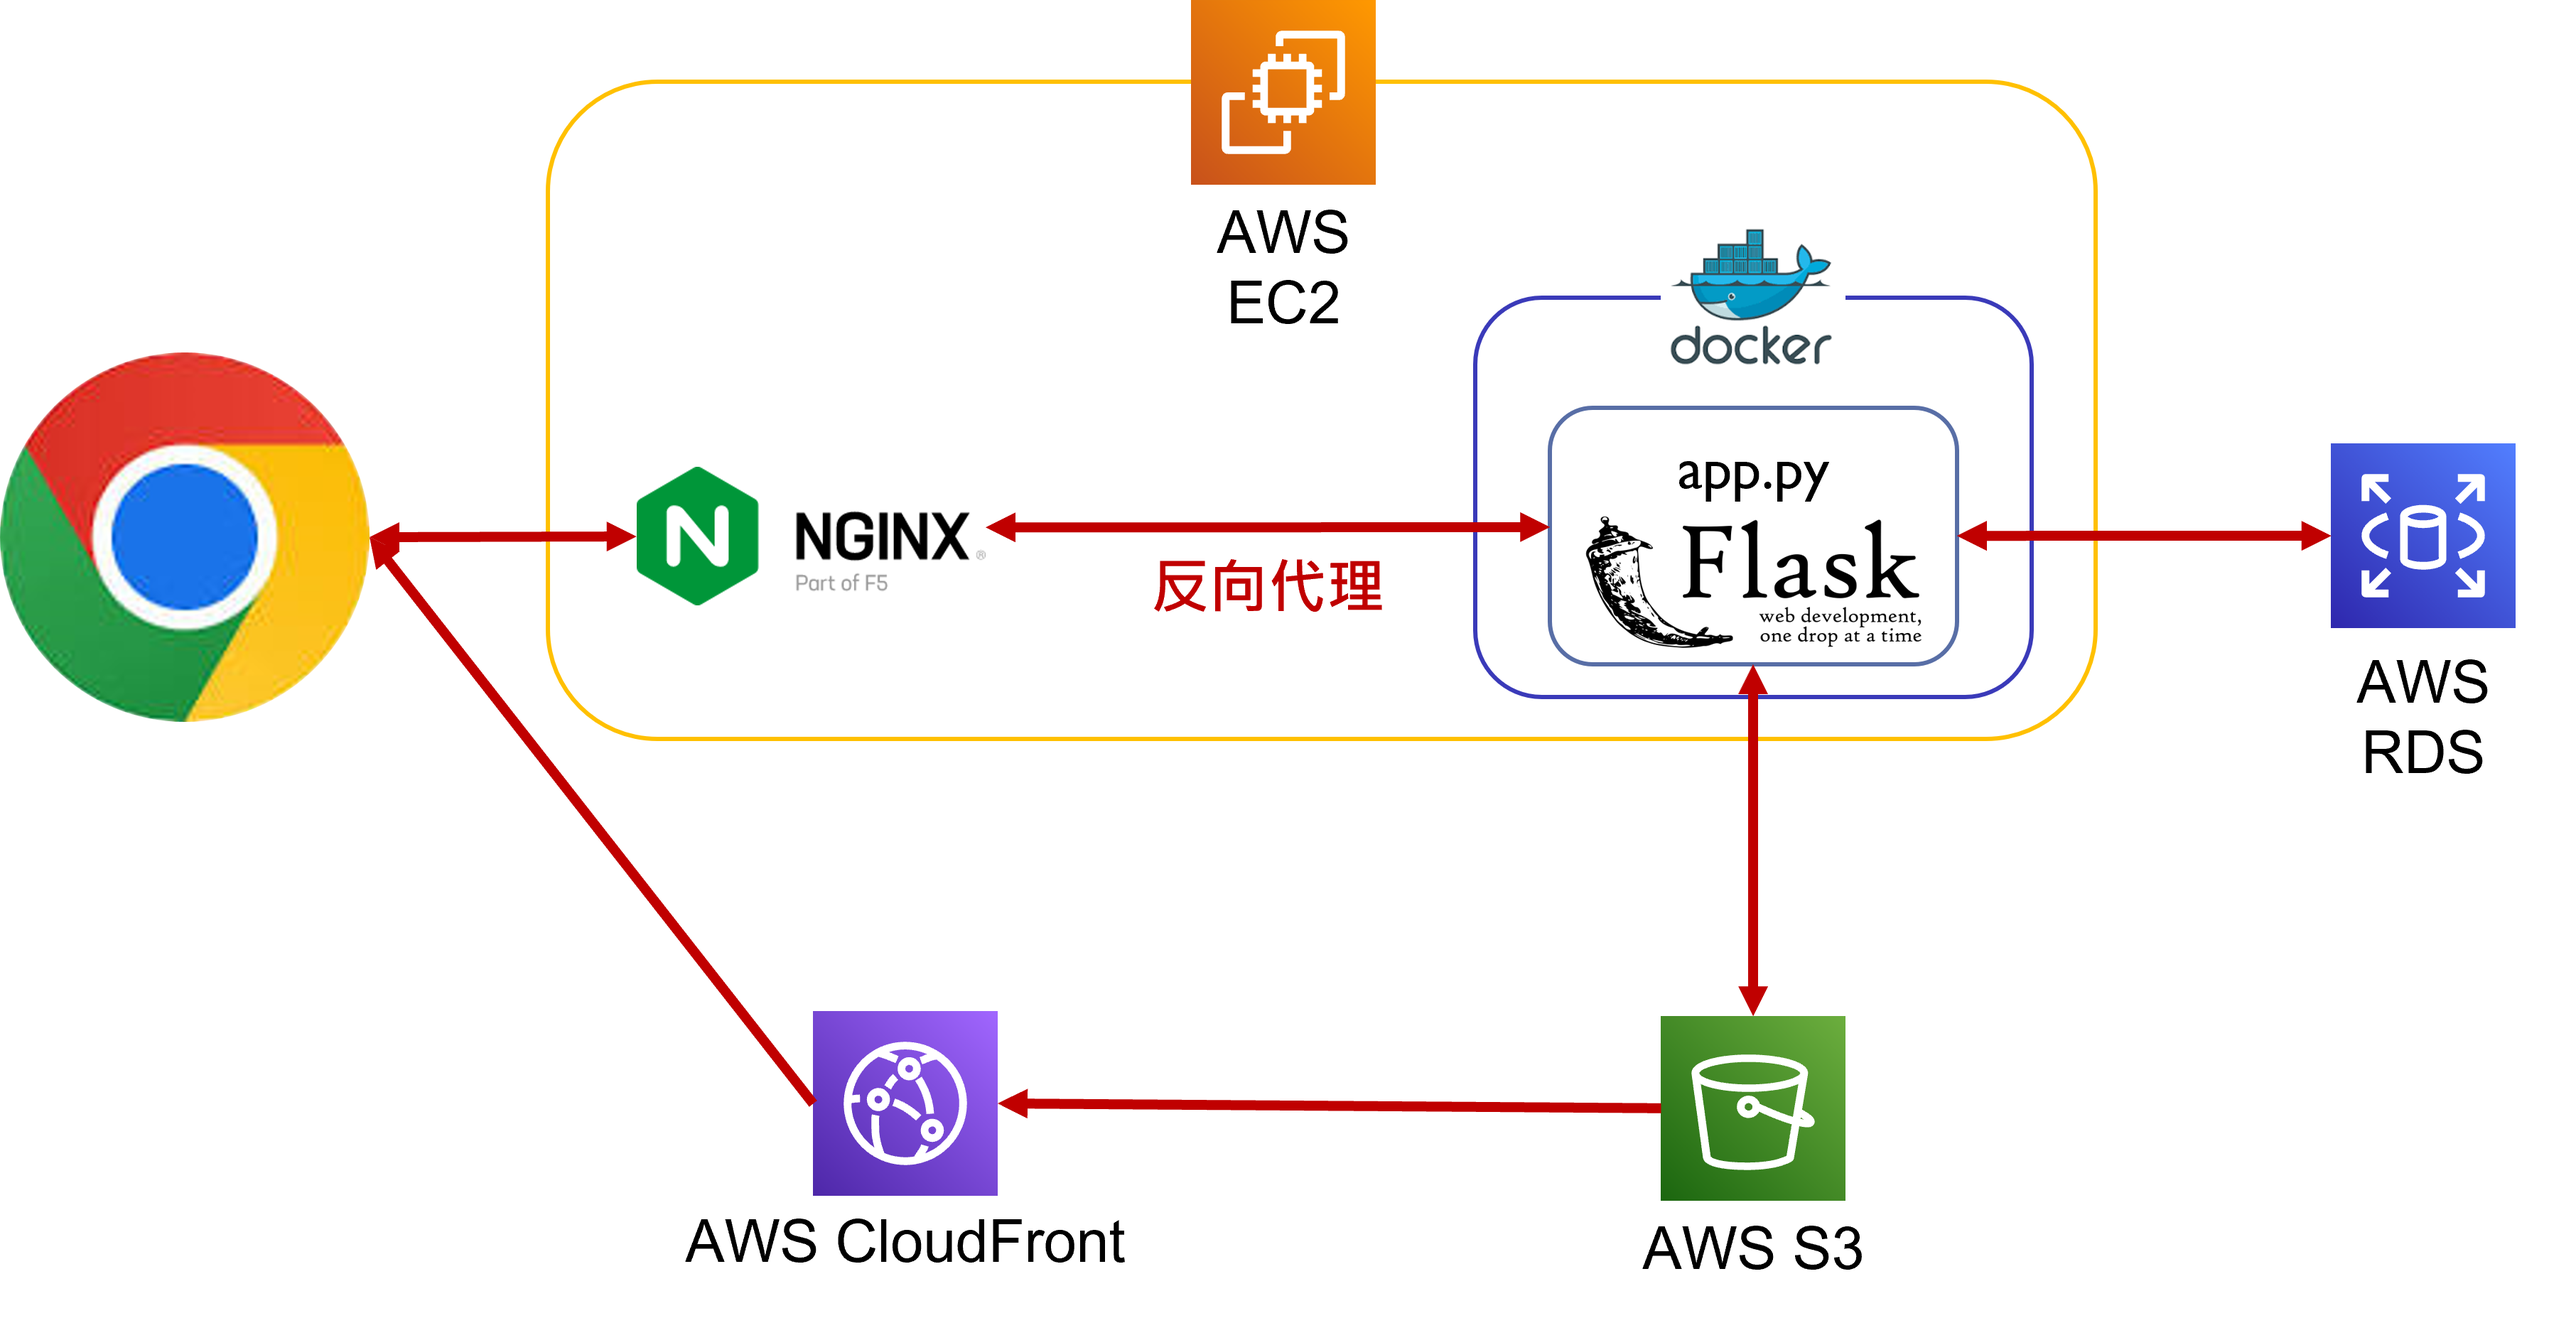
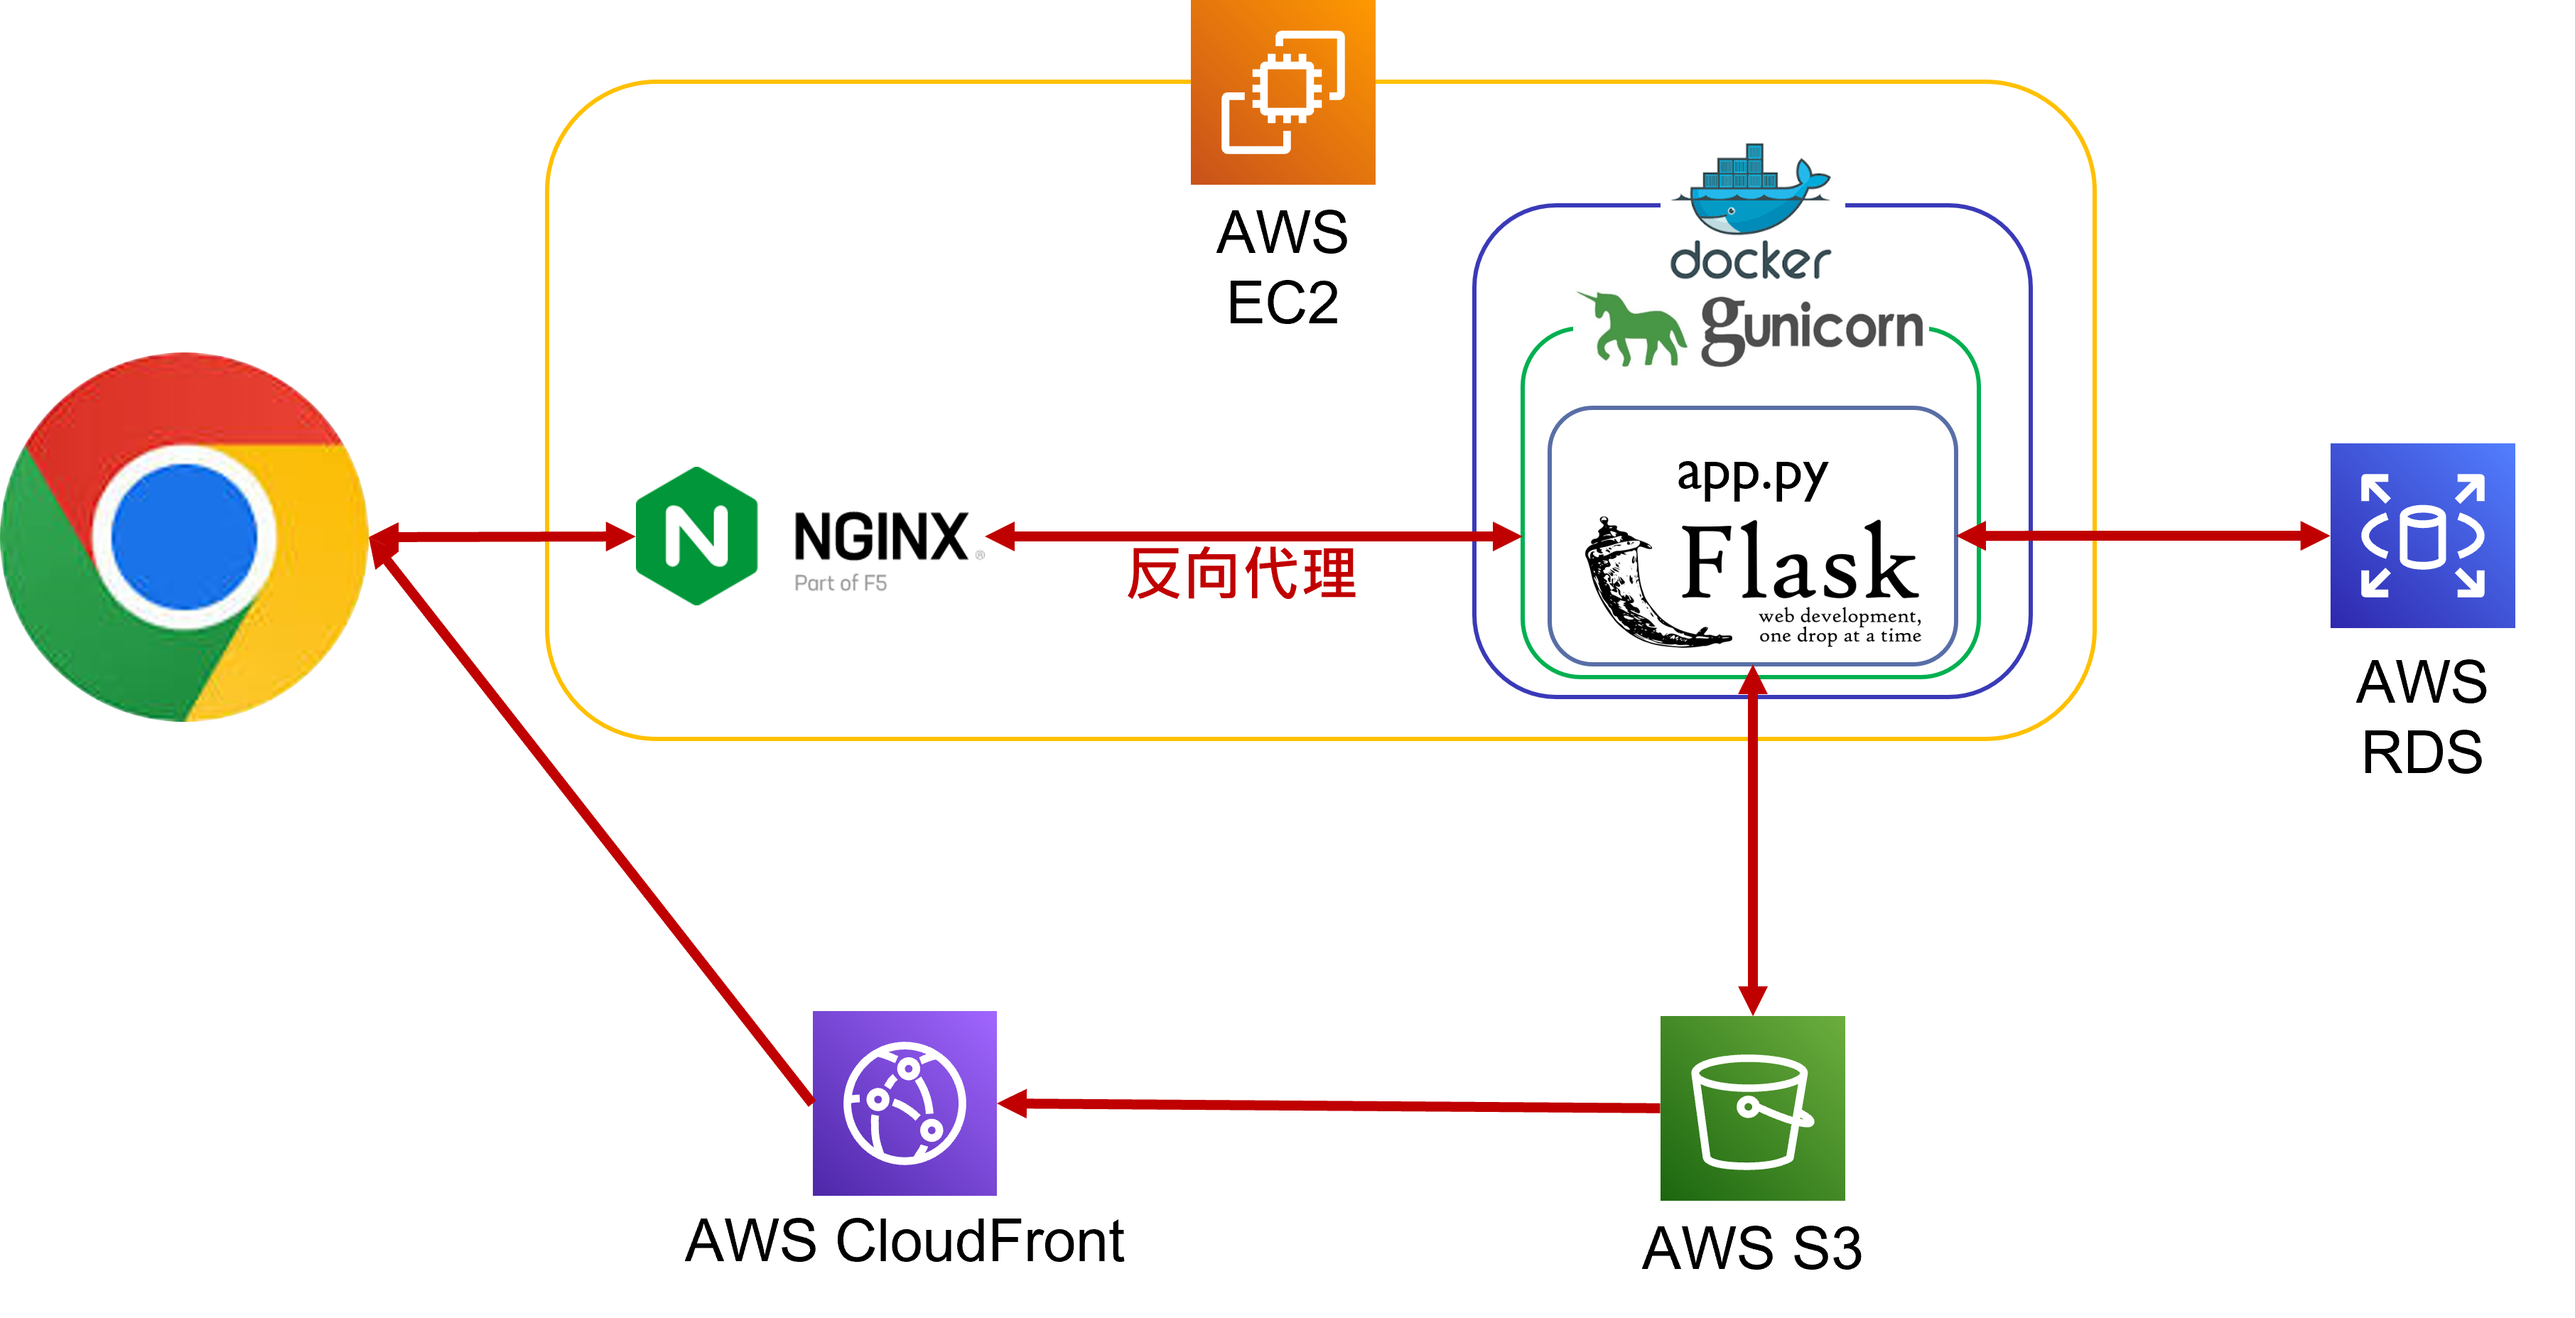
Add gunicorn in the web app and update README.

diff --git a/app.py b/app.py
@@ -36,7 +36,7 @@ app.register_blueprint(app3, url_prefix="/api")
 app.register_blueprint(app4, url_prefix="/api")
 app.register_blueprint(app5, url_prefix="/api")
 
-app.debug=True
-# app.run(host=dotenv_values(env)["app_host"], port=3000, ssl_context=("/etc/ssl/tour_certificate.crt", "/etc/ssl/tour_private.key"))#change port to 3000
-app.run(host=dotenv_values(env)["app_host"], port=3000) #test on my computer
-
+# app.debug=True
+# # app.run(host=dotenv_values(env)["app_host"], port=3000, ssl_context=("/etc/ssl/tour_certificate.crt", "/etc/ssl/tour_private.key"))#change port to 3000
+# app.run(host=dotenv_values(env)["app_host"], port=3000) #test on my computer
+# 使用 WSGI 不須 app.run

diff --git a/wsgi_config.py b/wsgi_config.py
@@ -1,0 +1,9 @@
+# WSGI Gunicorn
+from app import app
+import multiprocessing as mp
+
+# 一定要用 0.0.0.0，不得用 127.0.0.1
+bind = "0.0.0.0:3000"
+# workers = mp.cpu_count() * 2 + 1
+workers = 4
+threads = 4

diff --git a/README.md b/README.md
@@ -37,6 +37,8 @@ https://tour.yin888.info/
     <br/>保存會員登入狀態、身分認證及挾帶非私密的資料。
     *   boto3
     <br/>AWS 開發套件，上傳資料至 AWS S3 。
+    *   Gunicorn
+    <br/>WSGI，定義透過 HTTP 與 python web app 之間溝通的規範，處理 HTTP Request（字串）並轉換為 Python 可理解的 Input/Output 的中繼站（Middleware）。
 *   JavaScript
     <br/>網頁程式撰寫， DOM 控制。
 *   API
